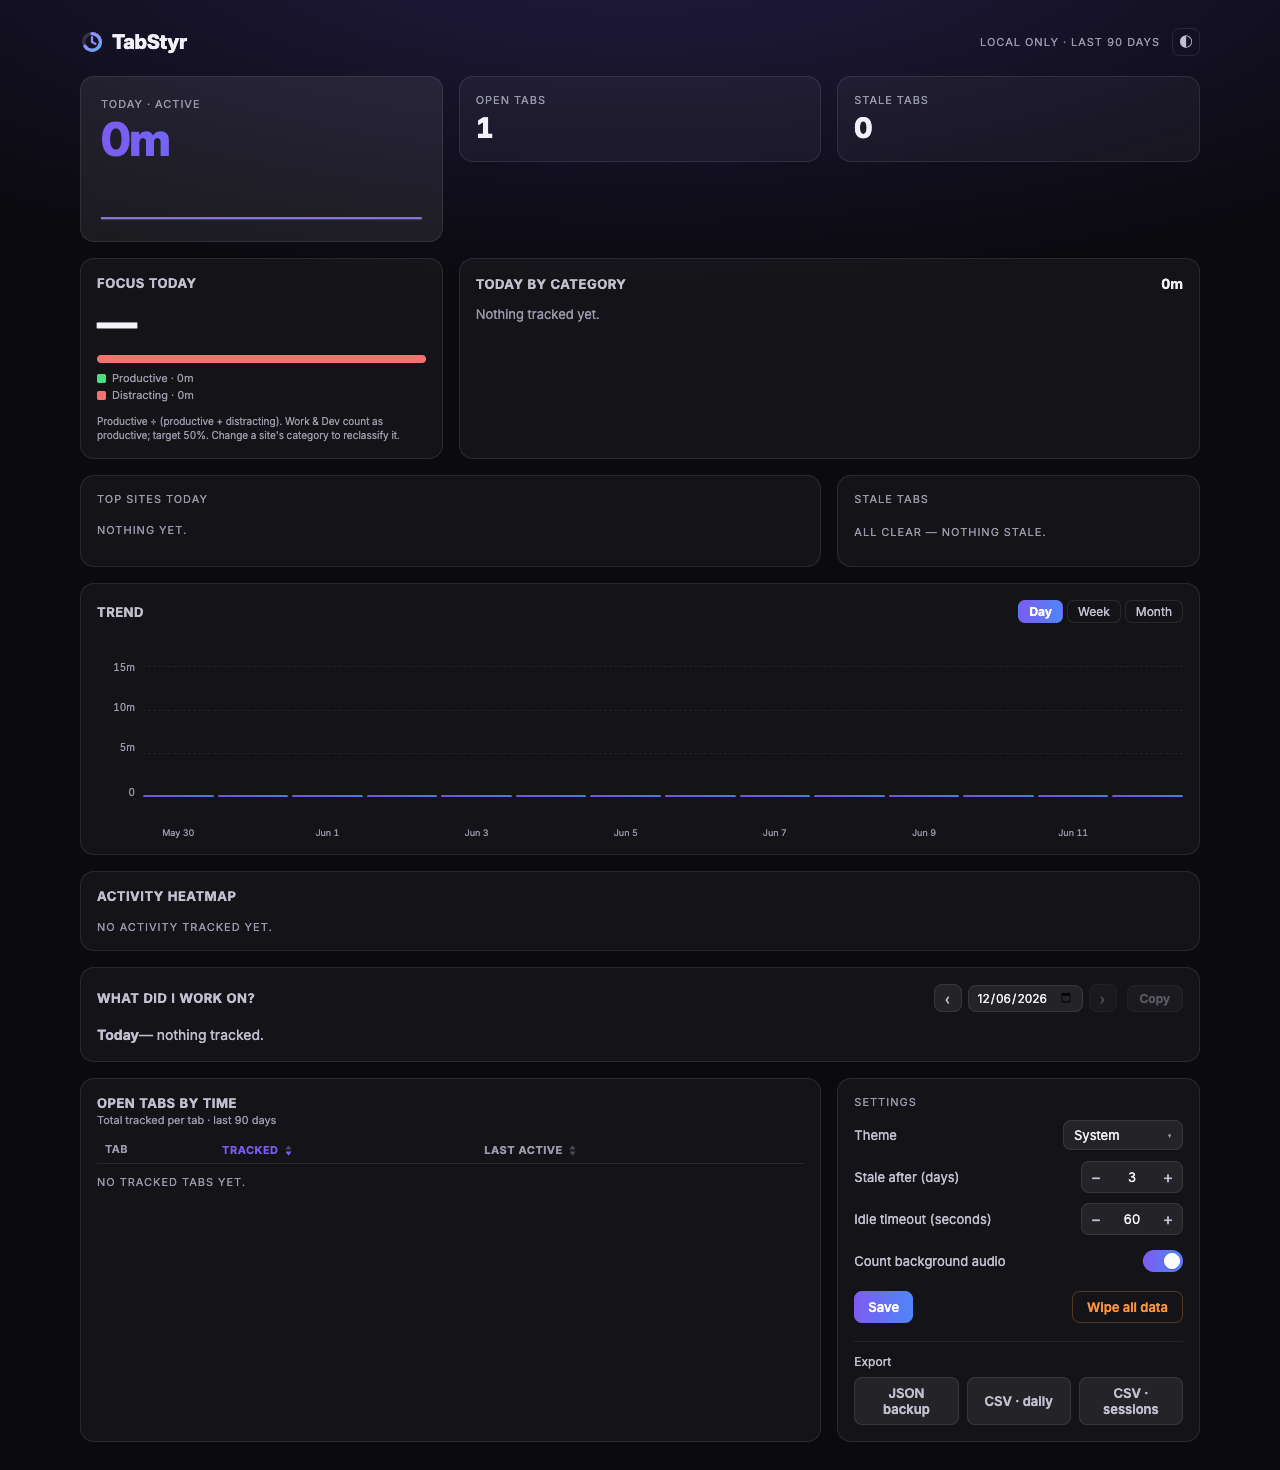
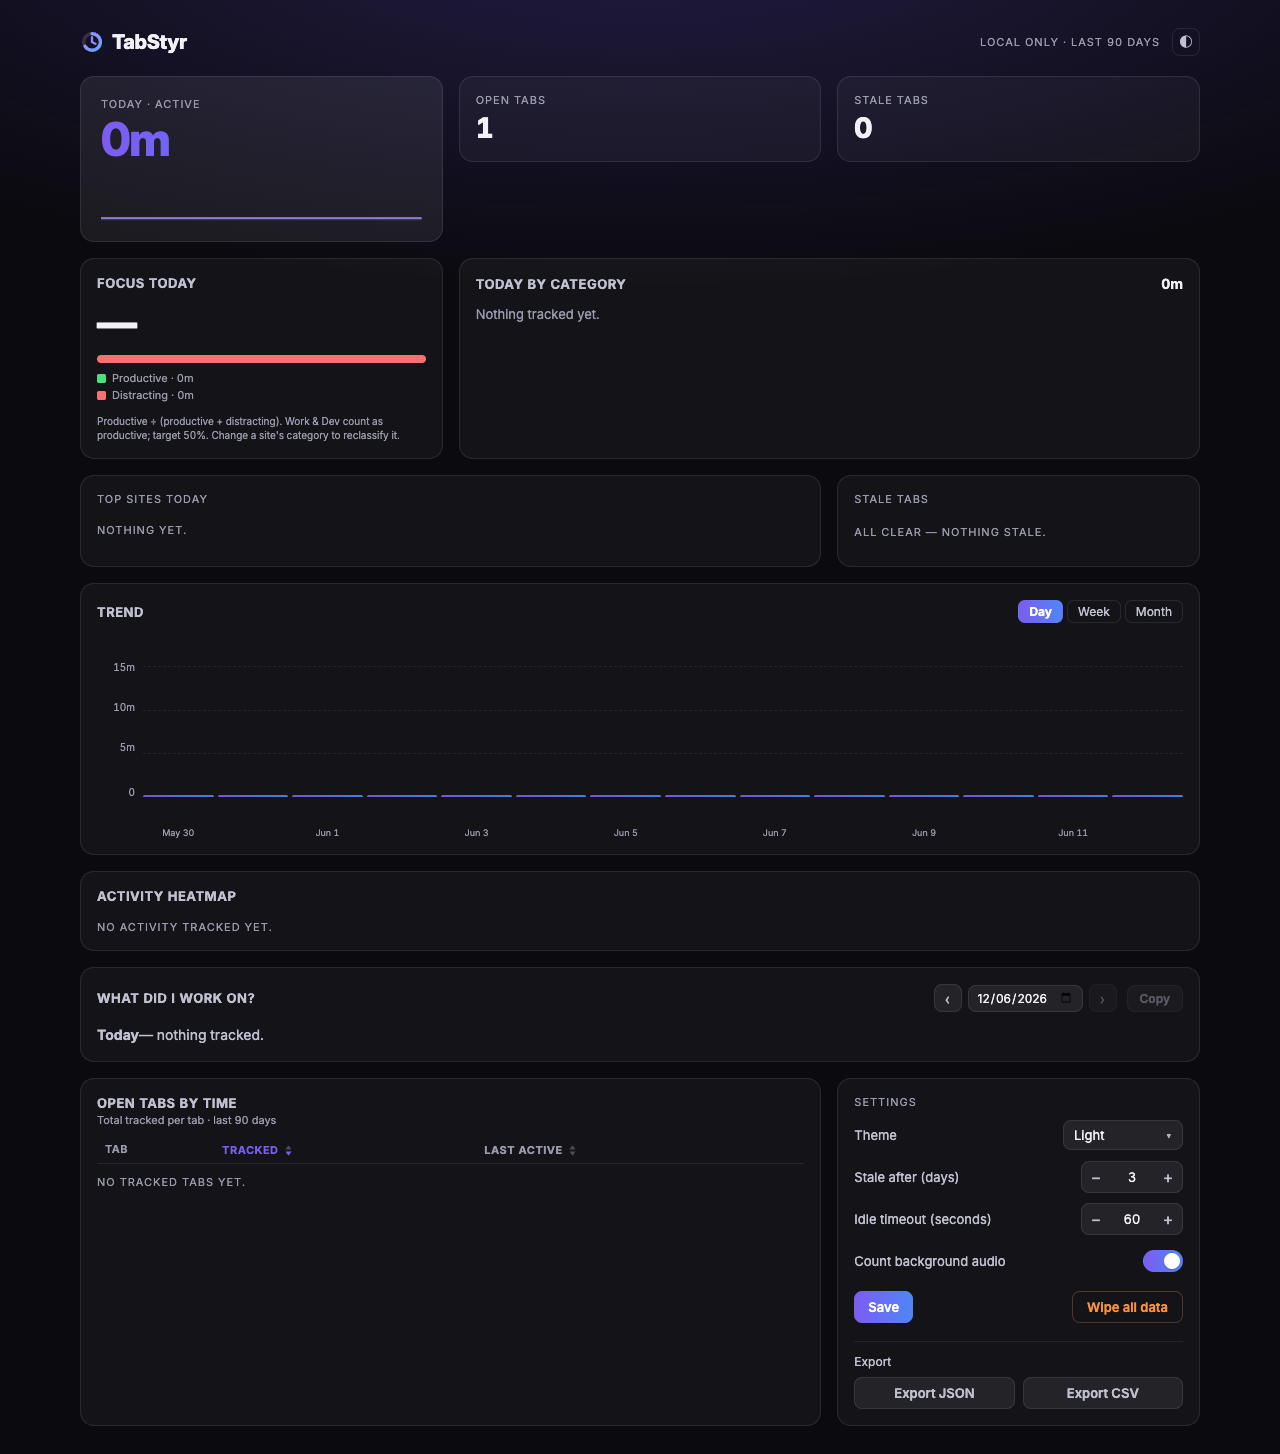
feat(settings): light/dark only theme, non-blocking save with toast, two export options, wipe confirmation modal
- Theme picker offers Light/Dark only; system remains the unset default
- Theme toggle cycles dark/light; more visible dropdown arrow
- Save no longer reloads the dashboard; shows a toast instead
- Export reduced to JSON + CSV (daily), files prefixed tabstyr-
- Wipe all data uses a styled confirmation modal and reloads on success

diff --git a/components/SettingsPanel.vue b/components/SettingsPanel.vue
@@ -4,17 +4,17 @@ import { browser } from 'wxt/browser';
 import { getSettings, saveSettings } from '@/lib/settings';
 import { useTheme } from '@/composables/useTheme';
 import * as repo from '@/lib/db/repo';
-import { dailyStatsToCsv, downloadFile, sessionsToCsv, toJsonBackup } from '@/lib/export';
+import { dailyStatsToCsv, downloadFile, toJsonBackup } from '@/lib/export';
 import { dateKey } from '@/lib/time';
 import type { ThemeSetting } from '@/lib/types';
 import SelectBox from '@/components/ui/SelectBox.vue';
 import ToggleSwitch from '@/components/ui/ToggleSwitch.vue';
 import NumberStepper from '@/components/ui/NumberStepper.vue';
 
+// Only explicit choices are offered; "system" stays the default until the user picks.
 const THEME_OPTIONS = [
-  { value: 'system', label: 'System' },
-  { value: 'dark', label: 'Dark' },
   { value: 'light', label: 'Light' },
+  { value: 'dark', label: 'Dark' },
 ];
 
 const emit = defineEmits<{ changed: [] }>();
@@ -23,15 +23,27 @@ const theme = useTheme();
 const staleDays = ref(3);
 const idleSeconds = ref(60);
 const audioEnabled = ref(true);
-const themeChoice = ref<ThemeSetting>('system');
-const saved = ref(false);
+const themeChoice = ref<'light' | 'dark'>('light');
+
+const toast = ref<string | null>(null);
+let toastTimer: ReturnType<typeof setTimeout> | undefined;
+function showToast(msg: string) {
+  toast.value = msg;
+  clearTimeout(toastTimer);
+  toastTimer = setTimeout(() => (toast.value = null), 2400);
+}
+
+function systemPrefersDark(): boolean {
+  return window.matchMedia('(prefers-color-scheme: dark)').matches;
+}
 
 onMounted(async () => {
   const s = await getSettings();
   staleDays.value = s.staleDays;
   idleSeconds.value = s.idleSeconds;
   audioEnabled.value = s.audioEnabled;
-  themeChoice.value = s.theme;
+  // If still on the implicit "system" default, show the resolved theme in the picker.
+  themeChoice.value = s.theme === 'system' ? (systemPrefersDark() ? 'dark' : 'light') : s.theme;
 });
 
 async function save() {
@@ -45,17 +57,16 @@ async function save() {
     });
     await theme.set(themeChoice.value);
     await browser.runtime.sendMessage({ type: 'settings-changed' });
-    saved.value = true;
-    setTimeout(() => (saved.value = false), 2000);
-    emit('changed');
+    showToast('Settings saved');
   } catch (e) {
     console.error('[settings] save failed', e);
+    showToast('Could not save settings');
   }
 }
 
 const exporting = ref(false);
 
-async function exportData(kind: 'json' | 'daily' | 'sessions') {
+async function exportData(kind: 'json' | 'csv') {
   if (exporting.value) return;
   exporting.value = true;
   try {
@@ -68,26 +79,37 @@ async function exportData(kind: 'json' | 'daily' | 'sessions') {
         getSettings(),
       ]);
       const json = toJsonBackup({ dailyStats, sessions, tabMeta, settings }, Date.now());
-      downloadFile(`tab-time-backup-${stamp}.json`, json, 'application/json');
-    } else if (kind === 'daily') {
-      downloadFile(`tab-time-daily-${stamp}.csv`, dailyStatsToCsv(await repo.getAllDailyStats()), 'text/csv');
+      downloadFile(`tabstyr-backup-${stamp}.json`, json, 'application/json');
+      showToast('Exported JSON backup');
     } else {
-      downloadFile(`tab-time-sessions-${stamp}.csv`, sessionsToCsv(await repo.getAllSessions()), 'text/csv');
+      const csv = dailyStatsToCsv(await repo.getAllDailyStats());
+      downloadFile(`tabstyr-${stamp}.csv`, csv, 'text/csv');
+      showToast('Exported CSV');
     }
   } catch (e) {
     console.error('[settings] export failed', e);
+    showToast('Export failed');
   } finally {
     exporting.value = false;
   }
 }
 
-async function wipe() {
-  if (!confirm('Delete ALL tracked data? This cannot be undone.')) return;
+const showWipeModal = ref(false);
+const wiping = ref(false);
+
+async function confirmWipe() {
+  if (wiping.value) return;
+  wiping.value = true;
   try {
     await browser.runtime.sendMessage({ type: 'wipe-data' });
-    emit('changed');
+    showWipeModal.value = false;
+    showToast('All data wiped');
+    emit('changed'); // reload the dashboard so the cleared state shows
   } catch (e) {
     console.error('[settings] wipe failed', e);
+    showToast('Wipe failed');
+  } finally {
+    wiping.value = false;
   }
 }
 </script>
@@ -101,7 +123,7 @@ async function wipe() {
         :model-value="themeChoice"
         :options="THEME_OPTIONS"
         label="Theme"
-        @update:model-value="themeChoice = $event as ThemeSetting"
+        @update:model-value="themeChoice = $event as 'light' | 'dark'"
       />
     </div>
     <div class="field">
@@ -117,23 +139,44 @@ async function wipe() {
       <ToggleSwitch v-model="audioEnabled" label="Count background audio" />
     </div>
     <div class="actions">
-      <button class="save" @click="save">{{ saved ? 'Saved ✓' : 'Save' }}</button>
-      <button class="wipe" @click="wipe">Wipe all data</button>
+      <button class="save" @click="save">Save</button>
+      <button class="wipe" @click="showWipeModal = true">Wipe all data</button>
     </div>
 
     <div class="export">
       <span class="field-label">Export</span>
       <div class="export-btns">
-        <button :disabled="exporting" @click="exportData('json')">JSON backup</button>
-        <button :disabled="exporting" @click="exportData('daily')">CSV · daily</button>
-        <button :disabled="exporting" @click="exportData('sessions')">CSV · sessions</button>
+        <button :disabled="exporting" @click="exportData('json')">Export JSON</button>
+        <button :disabled="exporting" @click="exportData('csv')">Export CSV</button>
       </div>
     </div>
+
+    <!-- Wipe confirmation -->
+    <div v-if="showWipeModal" class="backdrop" @click.self="showWipeModal = false">
+      <div class="modal" role="dialog" aria-modal="true" aria-label="Confirm wipe all data">
+        <h3 class="modal-title">Delete all data?</h3>
+        <p class="modal-body">
+          This permanently removes every session, daily total, and tab record stored on this
+          device. Settings are kept. This cannot be undone.
+        </p>
+        <div class="modal-actions">
+          <button class="cancel" :disabled="wiping" @click="showWipeModal = false">Cancel</button>
+          <button class="danger" :disabled="wiping" @click="confirmWipe">
+            {{ wiping ? 'Wiping…' : 'Delete everything' }}
+          </button>
+        </div>
+      </div>
+    </div>
+
+    <Transition name="toast">
+      <div v-if="toast" class="toast" role="status" aria-live="polite">{{ toast }}</div>
+    </Transition>
   </div>
 </template>
 
 <style scoped>
 .settings-tile {
+  position: relative;
   padding: 16px;
   display: flex;
   flex-direction: column;
@@ -187,12 +230,10 @@ button:focus-visible {
 }
 .export-btns {
   display: flex;
-  flex-wrap: wrap;
   gap: 8px;
 }
 .export-btns button {
   flex: 1;
-  min-width: 96px;
   background: var(--card-strong);
   color: var(--text-2);
   border: 1px solid var(--border);
@@ -205,5 +246,82 @@ button:focus-visible {
 .export-btns button:disabled {
   opacity: 0.5;
   cursor: not-allowed;
+}
+
+/* Wipe modal */
+.backdrop {
+  position: fixed;
+  inset: 0;
+  z-index: 60;
+  display: flex;
+  align-items: center;
+  justify-content: center;
+  padding: 16px;
+  background: rgba(8, 8, 16, 0.55);
+  backdrop-filter: blur(3px);
+}
+.modal {
+  width: min(380px, 100%);
+  background: var(--popover);
+  border: 1px solid var(--border);
+  border-radius: 14px;
+  box-shadow: 0 12px 40px rgba(0, 0, 0, 0.35);
+  padding: 20px;
+}
+.modal-title {
+  margin: 0 0 8px;
+  font-size: 16px;
+  font-weight: 700;
+}
+.modal-body {
+  margin: 0 0 18px;
+  font-size: 13px;
+  line-height: 1.5;
+  color: var(--text-2);
+}
+.modal-actions {
+  display: flex;
+  justify-content: flex-end;
+  gap: 8px;
+}
+.cancel {
+  background: var(--card-strong);
+  border: 1px solid var(--border);
+  color: var(--text-2);
+}
+.danger {
+  background: var(--negative);
+  color: #fff;
+}
+.danger:disabled,
+.cancel:disabled {
+  opacity: 0.6;
+  cursor: not-allowed;
+}
+
+/* Toast */
+.toast {
+  position: fixed;
+  left: 50%;
+  bottom: 28px;
+  transform: translateX(-50%);
+  z-index: 70;
+  background: var(--popover);
+  border: 1px solid var(--border);
+  color: var(--text);
+  font-size: 13px;
+  font-weight: 600;
+  padding: 10px 18px;
+  border-radius: 999px;
+  box-shadow: 0 8px 28px rgba(0, 0, 0, 0.3);
+}
+.toast-enter-active,
+.toast-leave-active {
+  transition: opacity 200ms ease, transform 200ms ease;
+}
+.toast-enter-from,
+.toast-leave-to {
+  opacity: 0;
+  transform: translate(-50%, 8px);
 }
 </style>

diff --git a/components/ui/SelectBox.vue b/components/ui/SelectBox.vue
@@ -109,9 +109,14 @@ onBeforeUnmount(() => document.removeEventListener('click', onClickOutside));
 .trigger:hover { border-color: var(--accent); }
 .trigger:focus-visible { outline: 2px solid var(--accent); outline-offset: 2px; }
 .chevron {
-  font-size: 10px;
-  color: var(--text-3);
+  font-size: 14px;
+  line-height: 1;
+  color: var(--text);
+  opacity: 0.7;
   transition: transform 150ms ease;
+}
+.trigger:hover .chevron {
+  opacity: 1;
 }
 .chevron.open { transform: rotate(180deg); }
 .menu {

diff --git a/e2e/extension.spec.ts b/e2e/extension.spec.ts
@@ -53,8 +53,8 @@ test('dashboard renders all analytics tiles', async ({ context, extensionId }) =
 test('settings export buttons are present', async ({ context, extensionId }) => {
   const page = await context.newPage();
   await page.goto(`chrome-extension://${extensionId}/dashboard.html`);
-  await expect(page.getByRole('button', { name: 'JSON backup' })).toBeVisible();
-  await expect(page.getByRole('button', { name: /CSV/ }).first()).toBeVisible();
+  await expect(page.getByRole('button', { name: 'Export JSON' })).toBeVisible();
+  await expect(page.getByRole('button', { name: 'Export CSV' })).toBeVisible();
 });
 
 test('theme toggle flips data-theme', async ({ context, extensionId }) => {

diff --git a/composables/useTheme.ts b/composables/useTheme.ts
@@ -7,7 +7,8 @@ export function resolveTheme(setting: ThemeSetting, systemPrefersDark: boolean):
   return setting;
 }
 
-const CYCLE: ThemeSetting[] = ['system', 'dark', 'light'];
+// "system" is the implicit default (when unset); the toggle only flips dark/light.
+const CYCLE: ThemeSetting[] = ['dark', 'light'];
 
 // Module-scope ref so all useTheme() instances share state
 const setting = ref<ThemeSetting>('system');